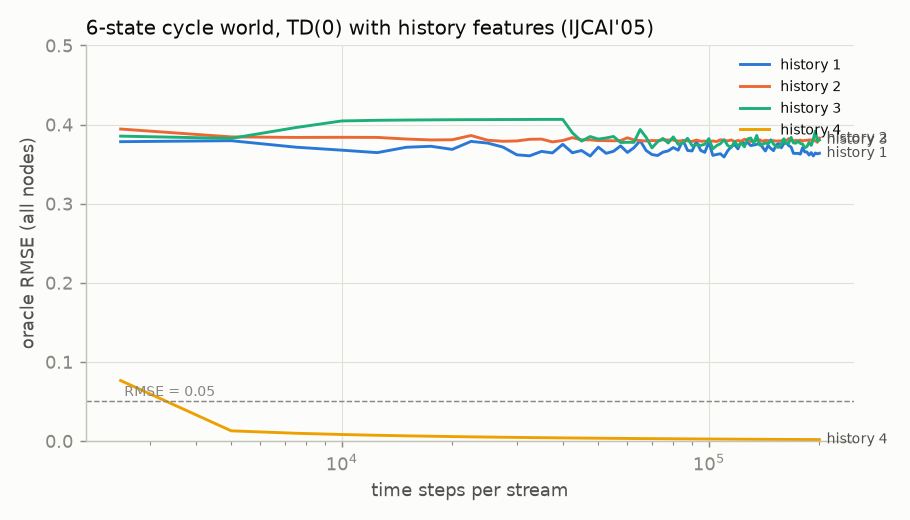
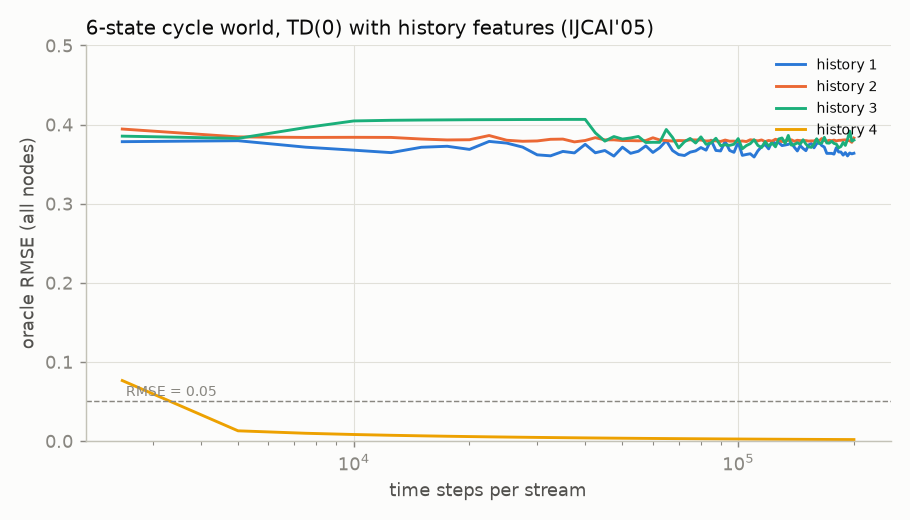
Figures: drop overlapping end labels, add replot-from-JSON script
Claude-Session: https://claude.ai/code/session_01QE2fBGsRbd7AoAcmyEbiB4

diff --git a/python/experiments/replot.py b/python/experiments/replot.py
@@ -1,0 +1,59 @@
+"""Regenerate every figure from the saved JSON results (no re-running)."""
+from common import *
+import os
+
+def C(R, k, label): return (label, R[k]["step"], R[k]["rmse"])
+
+if os.path.exists(os.path.join(DATA, "exp_paper.json")):
+    R = load_json("exp_paper")
+    plot_curves([C(R, f"ring5_lam{l}", f"lambda={l}") for l in [0.0, 0.25, 0.5, 0.75, 1.0]],
+                "5-state ring world, symmetric depth-3 question net (16 streams)", "paper_ring5_lambda.png", ref=0.05, ymax=0.5)
+    plot_curves([C(R, "ring5_lam1.0", "weight set per (a,o), linear"), C(R, "ring5_paperfeat_linear", "paper features, single matrix"),
+                 C(R, "ring5_paperfeat_mlp", "paper features, MLP-32")],
+                "5-state ring: the answer network must gate on the action", "paper_ring5_representation.png", ref=0.05, ymax=0.5)
+    plot_curves([C(R, "ring5_lam1_B1", "lambda=1"), C(R, "ring5_lam0_B1", "lambda=0")],
+                "5-state ring world, single stream", "paper_ring5_single_stream.png", ref=0.05, ymax=0.5)
+    plot_curves([C(R, f"ring8_lam{l}", f"lambda={l}") for l in [0.0, 0.5, 0.9, 1.0]],
+                "8-state ring world, sparse 16-node question net (16 streams)", "paper_ring8_lambda.png", ref=0.05, ymax=0.5)
+    plot_curves([C(R, f"cycle6_lam{l}", f"lambda={l}") for l in [0.0, 0.25, 0.5, 0.75, 1.0]],
+                "6-state cycle world, 5-chain question net (16 streams)", "paper_cycle6_lambda.png", ref=0.05, ymax=0.5)
+    plot_curves([C(R, f"cycle6_lam0_hf{k}", f"history {k}") for k in [1, 2, 3, 4]],
+                "6-state cycle world, TD(0) with history features (IJCAI'05)", "paper_cycle6_history.png", ref=0.05, ymax=0.5)
+
+if os.path.exists(os.path.join(DATA, "exp_grid.json")):
+    R = load_json("exp_grid")
+    plot_curves([C(R, f"d{d}_hf{h}_lam1", f"depth {d}, history {h}") for d in [2, 3, 4, 5] for h in [0, 3]],
+                "Bit-to-bit gridworld (104 states): depth x history, lambda=1, alpha=0.5", "grid_depth_history.png", ymax=0.5)
+    plot_curves([C(R, f"d4_hf2_lam{l}", f"lambda={l}") for l in [0.0, 0.5, 1.0]],
+                "Bit-to-bit gridworld: effect of lambda (depth 4, history 2, alpha=0.5)", "grid_lambda.png", ymax=0.5)
+    plot_curves([C(R, "d4_hf0_lam1", "weight set per (a,o)"), C(R, "d4_hf2_lam1", "weight set per (a,o) + history-2 features"),
+                 C(R, "d4_hw2", "weight set per 2-step history (16 sets)"), C(R, "d4_hf2_mlp", "history-2 features, MLP-64, SGD (diverged)"),
+                 C(R, "d4_hf2_mlp_adam", "history-2 features, MLP-64 + Adam")],
+                "Bit-to-bit gridworld: answer-network variants (depth 4, lambda=1)", "grid_answer_nets.png", ymax=0.5)
+
+if os.path.exists(os.path.join(DATA, "exp_alpha.json")):
+    R = load_json("exp_alpha")
+    plot_curves([C(R, k, f"depth {k[1]}, history {k.split('_hf')[1][0]}, alpha {k.split('_a')[1]}") for k in R if k.startswith("d") and "_a0" in k and "lam" not in k],
+                "Bit-to-bit gridworld: deeper fixed trees at smaller step sizes", "grid_alpha.png", ymax=0.5)
+    plot_curves([C(R, f"d4_hf2_lam{l}_a0.1", f"lambda {l}") for l in ["0", "0.5", "1"]],
+                "Bit-to-bit gridworld: lambda at alpha 0.1 (depth 4, history 2)", "grid_lambda_alpha0.1.png", ymax=0.5)
+
+if os.path.exists(os.path.join(DATA, "exp_big.json")):
+    R = load_json("exp_big")
+    plot_curves([C(R, f"{m}_1bit_d4_hf3", f"{m} ({R[f'{m}_1bit_d4_hf3']['S']} states)") for m in ["ijcai26", "tworooms", "maze12"]],
+                "Larger 1-bit maps: depth-4 tree, 3-step history, lambda=1", "big_maps_1bit.png", ymax=0.5)
+    plot_curves([C(R, "ijcai26_3bit_d2", "3 bits, F/R, depth 2"), C(R, "ijcai26_3bit_d3", "3 bits, F/R, depth 3"),
+                 C(R, "ijcai26_3bit_4act_d2", "3 bits, F/R/L/B, depth 2"), C(R, "ijcai26_1bit_4act_d3", "1 bit, F/R/L/B, depth 3")],
+                "26-cell map: multi-bit sensors and four actions (lambda=1)", "big_obs_actions.png", ymax=0.5)
+    cur = [C(R, "ijcai26_1bit_d3_hf0", "deterministic, linear")]
+    for env, lab in [("grid26c2a1b_slip0.1", "slip 0.1"), ("grid26c2a1b_noisy", "noisy sensor"), ("grid26c2a1b_slip0.1_noisy", "slip + noisy")]:
+        cur.append(C(R, f"{env}_d3_hf2_lam1.0", f"{lab}, linear")); cur.append(C(R, f"{env}_d3_hf2_mlp", f"{lab}, MLP-64 + Adam"))
+    plot_curves(cur, "26-cell map, stochastic motion / noisy sensor (depth 3, history 2, lambda=1)", "big_stochastic.png", ymax=0.5)
+
+if os.path.exists(os.path.join(DATA, "exp_history_baseline.json")):
+    R = load_json("exp_history_baseline")
+    for env in ["ring5", "ring8", "cycle6", "bit2bit104"]:
+        ks = sorted({int(k.split("_k")[1]) for k in R if k.startswith(env + "_k")})
+        plot_curves([C(R, f"{env}_k{k}", f"history k={k}") for k in ks], f"{env}: history-only next-observation predictors",
+                    f"history_{env}.png", ylabel="oracle RMSE (next-observation predictions)", ymax=0.5)
+print("figures regenerated")

diff --git a/python/experiments/common.py b/python/experiments/common.py
@@ -42,7 +42,8 @@ def plot_curves(curves, title, fname, ylabel="oracle RMSE (all nodes)", logx=Tru
     fig, ax = plt.subplots(figsize=(7, 4), dpi=130)
     for k, (label, xs, ys) in enumerate(curves):
         ax.plot(xs, ys, color=SERIES[k % len(SERIES)], label=label)
-        ax.annotate(label, (xs[-1], ys[-1]), xytext=(4, 0), textcoords="offset points", fontsize=8, color=INK2, va="center")
+    if ymax is not None and max(max(c[2]) for c in curves) > ymax:
+        ymax = min(1.0, 1.05 * max(max(c[2]) for c in curves))
     if ref is not None:
         ax.axhline(ref, color=MUTED, lw=0.8, ls="--")
         ax.annotate(f"RMSE = {ref}", (ax.get_xlim()[0] if not logx else min(c[1][0] for c in curves), ref),
